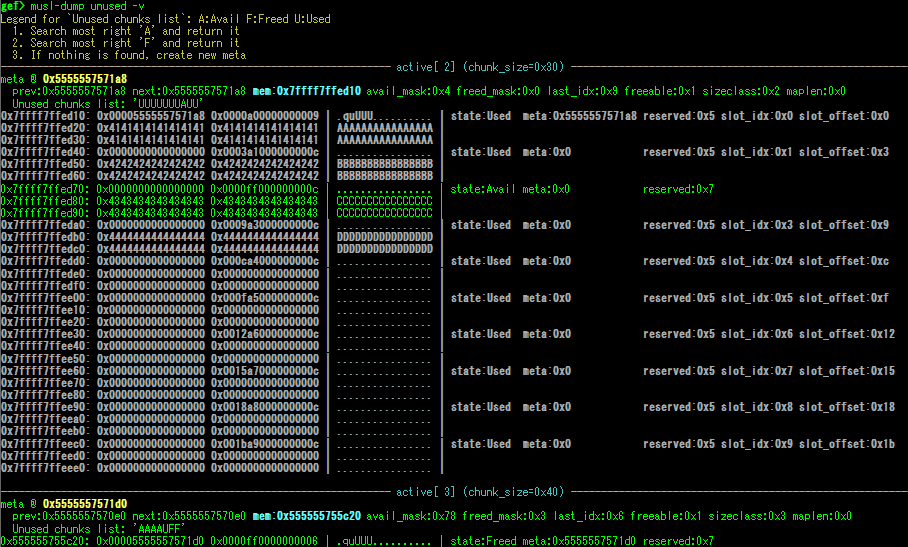
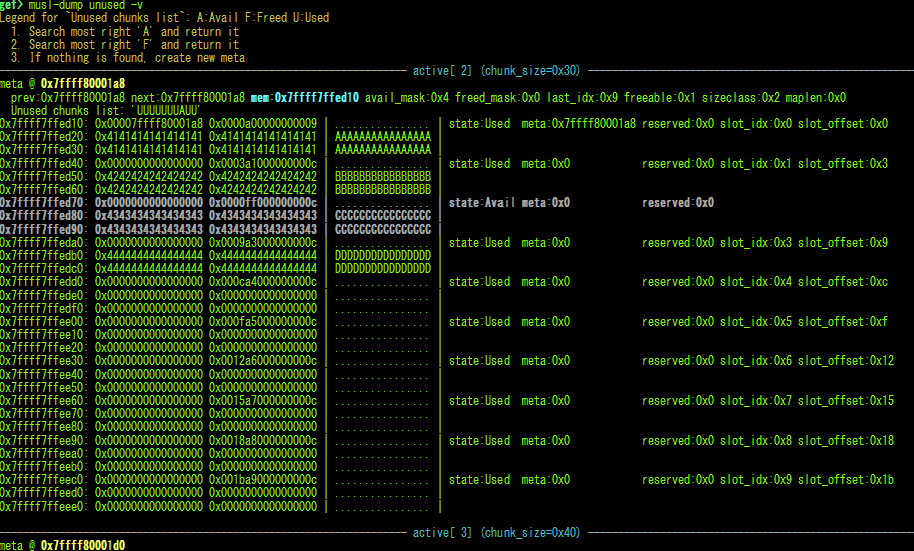
fix musl-dump

diff --git a/gef.py b/gef.py
@@ -16022,7 +16022,7 @@ class ExtractHeapAddrCommand(GenericCommand):
 
     def print_source(self):
         s = ""
-        s += "def reveal(fd)\n"
+        s += "def reveal(fd):\n"
         s += "    L = fd >> 36\n"
         s += "    for i in range(3):\n"
         s += "        temp = (fd >> (36-(i+1)*8)) & 0xff\n"
@@ -21693,17 +21693,141 @@ class PartitionAllocDumpOld2Command(GenericCommand):
 
 @register_command
 class MuslDumpCommand(GenericCommand):
-    """musl heap reusable chunks viewer (supported on x64/x86, based on musl libc v1.2.2).
+    """musl heap reusable chunks viewer (supported on x64/x86, based on musl libc v1.2.2; src/malloc/mallocng).
     See https://h-noson.hatenablog.jp/entry/2021/05/03/161933#-177pts-mooosl"""
     _cmdline_ = "musl-dump"
-    _syntax_ = "{:s} ctx|unused [-v]".format(_cmdline_)
+    _syntax_ = "{:s} ctx|unused [-v] [-a ACTIVE_IDX]".format(_cmdline_)
     _category_ = "Heap"
+
+    def get_malloc_context_heuristic(self):
+        try:
+            # search malloc
+            malloc = parse_address("malloc")
+            info("malloc: {:#x}".format(malloc))
+
+            # search __libc_malloc_impl
+            """
+            [pattern 1]
+               0x7ffff7d7dde0 <malloc>:     jmp    0x7ffff7d8ece2 <__libc_malloc_impl>
+
+            [pattern 2]
+               0x7ffff7f71650 <malloc>:     endbr64 
+               0x7ffff7f71654 <malloc+4>:   jmp    0x7ffff7f72ff0
+
+            [pattern 3]
+               0xf7f78bf0 <malloc>: jmp    0xf7f8bc3c
+            """
+            res = gdb.execute("x/10i {:#x}".format(malloc), to_string=True)
+            for line in res.splitlines():
+                m = re.search(r"jmp\s*(0x\w+)", line)
+                if not m:
+                    continue
+                __libc_malloc_impl = int(m.group(1), 16)
+                break
+            info("__libc_malloc_impl: {:#x}".format(__libc_malloc_impl))
+
+            # search __malloc_alloc_meta
+            """
+            [pattern 1]
+               0x7ffff7d8ed0a <__libc_malloc_impl+40>:      call   0x7ffff7d88dc1 <__errno_location>
+               0x7ffff7d8ed34 <__libc_malloc_impl+82>:      call   0x7ffff7da0c3b <mmap64>
+               0x7ffff7d8ed48 <__libc_malloc_impl+102>:     call   0x7ffff7d8e36b <wrlock>
+               0x7ffff7d8ed4d <__libc_malloc_impl+107>:     call   0x7ffff7d8e382 <step_seq>
+               0x7ffff7d8ed52 <__libc_malloc_impl+112>:     call   0x7ffff7d8e45a <__malloc_alloc_meta>
+
+            [pattern 2]
+               0x7ffff7f7303b:      call   0x7ffff7f8a640 <mmap64>
+               0x7ffff7f73074:      call   0x7ffff7f72290
+
+            [pattern 3]
+               0xf7f8bc40:  call   0xf7f7cf84
+               0xf7f8bc67:  call   0xf7f84e85 <__errno_location>
+               0xf7f8bc88:  call   0xf7f9cd53 <mmap64>
+               0xf7f8bc9b:  call   0xf7f8b3aa
+               0xf7f8bca0:  call   0xf7f8b3d2
+               0xf7f8bca5:  call   0xf7f8b439
+            """
+            __malloc_alloc_meta_candidate = []
+            res = gdb.execute("x/100i {:#x}".format(__libc_malloc_impl), to_string=True)
+            for line in res.splitlines():
+                m = re.search(r"call\s*(0x\w+)", line)
+                if not m:
+                    continue
+                addr = int(m.group(1), 16)
+                __malloc_alloc_meta_candidate.append(addr)
+
+            # search __malloc_context
+            """
+            [patttern 1]
+               0x7ffff7d8e45a <__malloc_alloc_meta>:        push   r12
+               0x7ffff7d8e45c <__malloc_alloc_meta+2>:      push   rbp
+               0x7ffff7d8e45d <__malloc_alloc_meta+3>:      push   rbx
+               0x7ffff7d8e45e <__malloc_alloc_meta+4>:      sub    rsp,0x10
+               0x7ffff7d8e462 <__malloc_alloc_meta+8>:      cmp    DWORD PTR [rip+0x26d67f],0x0        # 0x7ffff7ffbae8 <__malloc_context+8>
+
+            [patttern 2]
+               0x7ffff7f72290:      endbr64 
+               0x7ffff7f72294:      push   r12
+               0x7ffff7f72296:      push   rbp
+               0x7ffff7f72297:      push   rbx
+               0x7ffff7f72298:      sub    rsp,0x10
+               0x7ffff7f7229c:      mov    rax,QWORD PTR fs:0x28
+               0x7ffff7f722a5:      mov    QWORD PTR [rsp+0x8],rax
+               0x7ffff7f722aa:      xor    eax,eax
+               0x7ffff7f722ac:      mov    eax,DWORD PTR [rip+0x89816]        # 0x7ffff7ffbac8
+               0x7ffff7f722b2:      test   eax,eax
+
+            [pattern 3]
+               0xf7f8b439:  push   ebp
+               0xf7f8b43a:  push   edi
+               0xf7f8b43b:  push   esi
+               0xf7f8b43c:  push   ebx
+               0xf7f8b43d:  call   0xf7f7cf84
+               0xf7f8b442:  add    ebx,0x6fbbe       # libc_bss_base
+               0xf7f8b448:  sub    esp,0x1c
+               0xf7f8b44b:  cmp    DWORD PTR [ebx+0x708],0x0
+            """
+            for cand in __malloc_alloc_meta_candidate:
+                info("alloc_meta (candidate): {:#x}".format(cand))
+                res = gdb.execute("x/10i {:#x}".format(cand), to_string=True)
+                for line in res.splitlines():
+                    if is_x86_64():
+                        m = re.search(r"DWORD PTR \[rip\+0x\w+\].*#\s*(0x\w+)", line)
+                        if not m:
+                            continue
+                        __malloc_context_init_done = int(m.group(1), 16)
+                    else:
+                        m = re.search(r"DWORD PTR \[e[abcd]x\+(0x\w+)\]", line)
+                        if not m:
+                            continue
+                        __malloc_context_init_done_offset = int(m.group(1), 16)
+                        rw_maps = [p for p in get_process_maps() if p.permission.value == Permission.READ | Permission.WRITE]
+                        rw_maps = [p for p in rw_maps if "libc.so" in p.path]
+                        libc_bss_base = rw_maps[0].page_start
+                        __malloc_context_init_done = libc_bss_base + __malloc_context_init_done_offset
+                    # check
+                    value = u32(read_memory(__malloc_context_init_done, 4))
+                    if value not in [0, 1]: # init_done is 1 or 0
+                        continue
+                    # found
+                    info("__malloc_context.init_done: {:#x}".format(__malloc_context_init_done))
+                    __malloc_context = __malloc_context_init_done - current_arch.ptrsize
+                    x = read_int_from_memory(__malloc_context)
+                    if x == gef_getpagesize():
+                        __malloc_context -= current_arch.ptrsize
+                    info("__malloc_context: {:#x}".format(__malloc_context))
+                    return __malloc_context
+            return None
+        except:
+            err("Not found &__malloc_context")
+            return None
 
     def get_malloc_context(self):
         try:
             return parse_address("&__malloc_context")
         except:
-            return None
+            info("Symbol is not found. It will use heuristic search")
+            return self.get_malloc_context_heuristic()
 
     @lru_cache()
     def class_to_size(self, cl):
@@ -21725,8 +21849,10 @@ class MuslDumpCommand(GenericCommand):
 
     def read_ctx(self):
         ptrsize = current_arch.ptrsize
-        self.ctx = {}
-        self.ctx["addr"] = current = self.get_malloc_context()
+        ctx = {}
+        ctx["addr"] = current = self.get_malloc_context()
+        if current is None:
+            return None
         """
         struct malloc_context {
             uint64_t secret;
@@ -21751,78 +21877,78 @@ class MuslDumpCommand(GenericCommand):
             uintptr_t brk;
         };
         """
-        self.ctx["secret"] = u64(read_memory(current, 8))
+        ctx["secret"] = u64(read_memory(current, 8))
         current += 8
         x = read_int_from_memory(current)
         if x == gef_getpagesize():
-            self.ctx["pagesize"] = x
+            ctx["pagesize"] = x
             current += ptrsize
         else:
-            self.ctx["pagesize"] = None
+            ctx["pagesize"] = None
 
-        self.ctx["init_done"] = u32(read_memory(current, 4))
+        ctx["init_done"] = u32(read_memory(current, 4))
         current += 4
-        self.ctx["mmap_counter"] = u32(read_memory(current, 4))
+        ctx["mmap_counter"] = u32(read_memory(current, 4))
         current += 4
-        self.ctx["free_meta_head"] = read_int_from_memory(current)
+        ctx["free_meta_head"] = read_int_from_memory(current)
         current += ptrsize
-        self.ctx["avail_meta"] = read_int_from_memory(current)
+        ctx["avail_meta"] = read_int_from_memory(current)
         current += ptrsize
-        self.ctx["avail_meta_count"] = read_int_from_memory(current)
+        ctx["avail_meta_count"] = read_int_from_memory(current)
         current += ptrsize
-        self.ctx["avail_meta_area_count"] = read_int_from_memory(current)
+        ctx["avail_meta_area_count"] = read_int_from_memory(current)
         current += ptrsize
-        self.ctx["alloc_shift"] = read_int_from_memory(current)
+        ctx["alloc_shift"] = read_int_from_memory(current)
         current += ptrsize
-        self.ctx["meta_area_head"] = read_int_from_memory(current)
+        ctx["meta_area_head"] = read_int_from_memory(current)
         current += ptrsize
-        self.ctx["meta_area_tail"] = read_int_from_memory(current)
+        ctx["meta_area_tail"] = read_int_from_memory(current)
         current += ptrsize
-        self.ctx["avail_meta_areas"] = read_int_from_memory(current)
+        ctx["avail_meta_areas"] = read_int_from_memory(current)
         current += ptrsize
-        self.ctx["active"] = []
+        ctx["active"] = []
         for i in range(48):
-            self.ctx["active"].append(read_int_from_memory(current))
+            ctx["active"].append(read_int_from_memory(current))
             current += ptrsize
-        self.ctx["usage_by_class"] = []
+        ctx["usage_by_class"] = []
         for i in range(48):
-            self.ctx["usage_by_class"].append(read_int_from_memory(current))
+            ctx["usage_by_class"].append(read_int_from_memory(current))
             current += ptrsize
-        self.ctx["unmap_seq"] = read_memory(current, 32)
+        ctx["unmap_seq"] = read_memory(current, 32)
         current += 32
-        self.ctx["bounces"] = read_memory(current, 32)
+        ctx["bounces"] = read_memory(current, 32)
         current += 32
-        self.ctx["seq"] = ord(read_memory(current, 1))
+        ctx["seq"] = ord(read_memory(current, 1))
         current += ptrsize # with padding
-        self.ctx["brk"] = read_int_from_memory(current)
+        ctx["brk"] = read_int_from_memory(current)
         current += ptrsize
-        return
+        return ctx
 
-    def print_ctx(self):
-        gef_print(titlify("__malloc_context: {:#x}".format(self.ctx["addr"])))
-        gef_print("  uint64_t secret:                    {:#x}".format(self.ctx["secret"]))
-        if self.ctx["pagesize"]:
-            gef_print("  size_t pagesize:                    {:#x}".format(self.ctx["pagesize"]))
-        gef_print("  int init_done:                      {:#x}".format(self.ctx["init_done"]))
-        gef_print("  unsigned int mmap_counter:          {:#x}".format(self.ctx["mmap_counter"]))
-        gef_print("  struct meta* free_meta_head:        {:#x}".format(self.ctx["free_meta_head"]))
-        gef_print("  struct meta* avail_meta:            {:#x}".format(self.ctx["avail_meta"]))
-        gef_print("  size_t avail_meta_count:            {:#x}".format(self.ctx["avail_meta_count"]))
-        gef_print("  size_t avail_meta_area_count:       {:#x}".format(self.ctx["avail_meta_area_count"]))
-        gef_print("  size_t alloc_shift:                 {:#x}".format(self.ctx["alloc_shift"]))
-        gef_print("  struct meta_area* meta_area_head:   {:#x}".format(self.ctx["meta_area_head"]))
-        gef_print("  struct meta_area* meta_area_tail:   {:#x}".format(self.ctx["meta_area_tail"]))
-        gef_print("  unsigned char* avail_meta_areas:    {:#x}".format(self.ctx["avail_meta_areas"]))
+    def print_ctx(self, ctx):
+        gef_print(titlify("__malloc_context: {:#x}".format(ctx["addr"])))
+        gef_print("  uint64_t secret:                    {:#x}".format(ctx["secret"]))
+        if ctx["pagesize"]:
+            gef_print("  size_t pagesize:                    {:#x}".format(ctx["pagesize"]))
+        gef_print("  int init_done:                      {:#x}".format(ctx["init_done"]))
+        gef_print("  unsigned int mmap_counter:          {:#x}".format(ctx["mmap_counter"]))
+        gef_print("  struct meta* free_meta_head:        {:#x}".format(ctx["free_meta_head"]))
+        gef_print("  struct meta* avail_meta:            {:#x}".format(ctx["avail_meta"]))
+        gef_print("  size_t avail_meta_count:            {:#x}".format(ctx["avail_meta_count"]))
+        gef_print("  size_t avail_meta_area_count:       {:#x}".format(ctx["avail_meta_area_count"]))
+        gef_print("  size_t alloc_shift:                 {:#x}".format(ctx["alloc_shift"]))
+        gef_print("  struct meta_area* meta_area_head:   {:#x}".format(ctx["meta_area_head"]))
+        gef_print("  struct meta_area* meta_area_tail:   {:#x}".format(ctx["meta_area_tail"]))
+        gef_print("  unsigned char* avail_meta_areas:    {:#x}".format(ctx["avail_meta_areas"]))
         gef_print("  struct meta* active[48]:")
         for i in range(48):
-            gef_print("     active[{:2d}] (for chunk_size={:#7x}):     {:#x}".format(i, self.class_to_size(i), self.ctx["active"][i]))
+            gef_print("     active[{:2d}] (for chunk_size={:#7x}):     {:#x}".format(i, self.class_to_size(i), ctx["active"][i]))
         gef_print("  size_t usage_by_class[48]:")
         for i in range(48):
-            gef_print("     usage_by_class[{:2d}]:                     {:#x}".format(i, self.ctx["usage_by_class"][i]))
-        gef_print("  uint8_t unmap_seq[32]:              {}".format(' '.join(["%02x" % x for x in self.ctx["unmap_seq"]])))
-        gef_print("  uint8_t bounces[32]:                {}".format(' '.join(["%02x" % x for x in self.ctx["bounces"]])))
-        gef_print("  uint8_t seq:                        {:#x}".format(self.ctx["seq"]))
-        gef_print("  uintptr_t brk:                      {:#x}".format(self.ctx["brk"]))
+            gef_print("     usage_by_class[{:2d}]:                     {:#x}".format(i, ctx["usage_by_class"][i]))
+        gef_print("  uint8_t unmap_seq[32]:              {}".format(' '.join(["%02x" % x for x in ctx["unmap_seq"]])))
+        gef_print("  uint8_t bounces[32]:                {}".format(' '.join(["%02x" % x for x in ctx["bounces"]])))
+        gef_print("  uint8_t seq:                        {:#x}".format(ctx["seq"]))
+        gef_print("  uintptr_t brk:                      {:#x}".format(ctx["brk"]))
         return
 
     def read_meta(self, addr):
@@ -21956,12 +22082,12 @@ class MuslDumpCommand(GenericCommand):
         # print
         dump = dump.rstrip()
         if state == "Used":
-            gef_print(Color.grayify(dump))
-        else:
             gef_print(dump)
+        else:
+            gef_print(Color.grayify(dump))
         return
 
-    def print_meta(self):
+    def print_meta(self, ctx):
         gef_print(Color.colorify("Legend for `Unused chunks list`: A:Avail F:Freed U:Used", "yellow"))
         gef_print(Color.colorify("  1. Search most right 'A' and return it", "yellow"))
         gef_print(Color.colorify("  2. Search most right 'F' and return it", "yellow"))
@@ -21969,7 +22095,9 @@ class MuslDumpCommand(GenericCommand):
 
         # iterate __malloc_context.active
         for idx in range(48):
-            current = self.ctx["active"][idx]
+            if self.active_idx and idx != self.active_idx:
+                continue
+            current = ctx["active"][idx]
             if current == 0:
                 continue
 
@@ -22015,15 +22143,23 @@ class MuslDumpCommand(GenericCommand):
             self.verbose = True
             argv.remove("-v")
 
+        self.active_idx = False
+        while "-a" in argv:
+            idx = argv.index("-a")
+            self.active_idx = int(argv[idx + 1])
+            argv = argv[:idx] + argv[idx+2:]
+
         if not argv:
             self.usage()
             return
 
-        self.read_ctx()
+        ctx = self.read_ctx()
+        if ctx is None:
+            return
         if argv[0] == "ctx":
-            self.print_ctx()
+            self.print_ctx(ctx)
         elif argv[0] == "unused":
-            self.print_meta()
+            self.print_meta(ctx)
         return
 
 

diff --git a/README.md b/README.md
@@ -115,7 +115,6 @@ All of these features are experimental. Tested on Ubuntu 18.04 / 20.04 / Debian 
 * `musl-dump`: dumps musl-libc unused chunks (heuristic).
     * Supported on x64/x86, based on musl-libc v1.2.2.
     * ![](https://raw.githubusercontent.com/bata24/gef/dev/images/musl-dump.png)
-    * Not maintained for a while.
 
 ### Other improved features
 * Glibc heap commands are improved.
